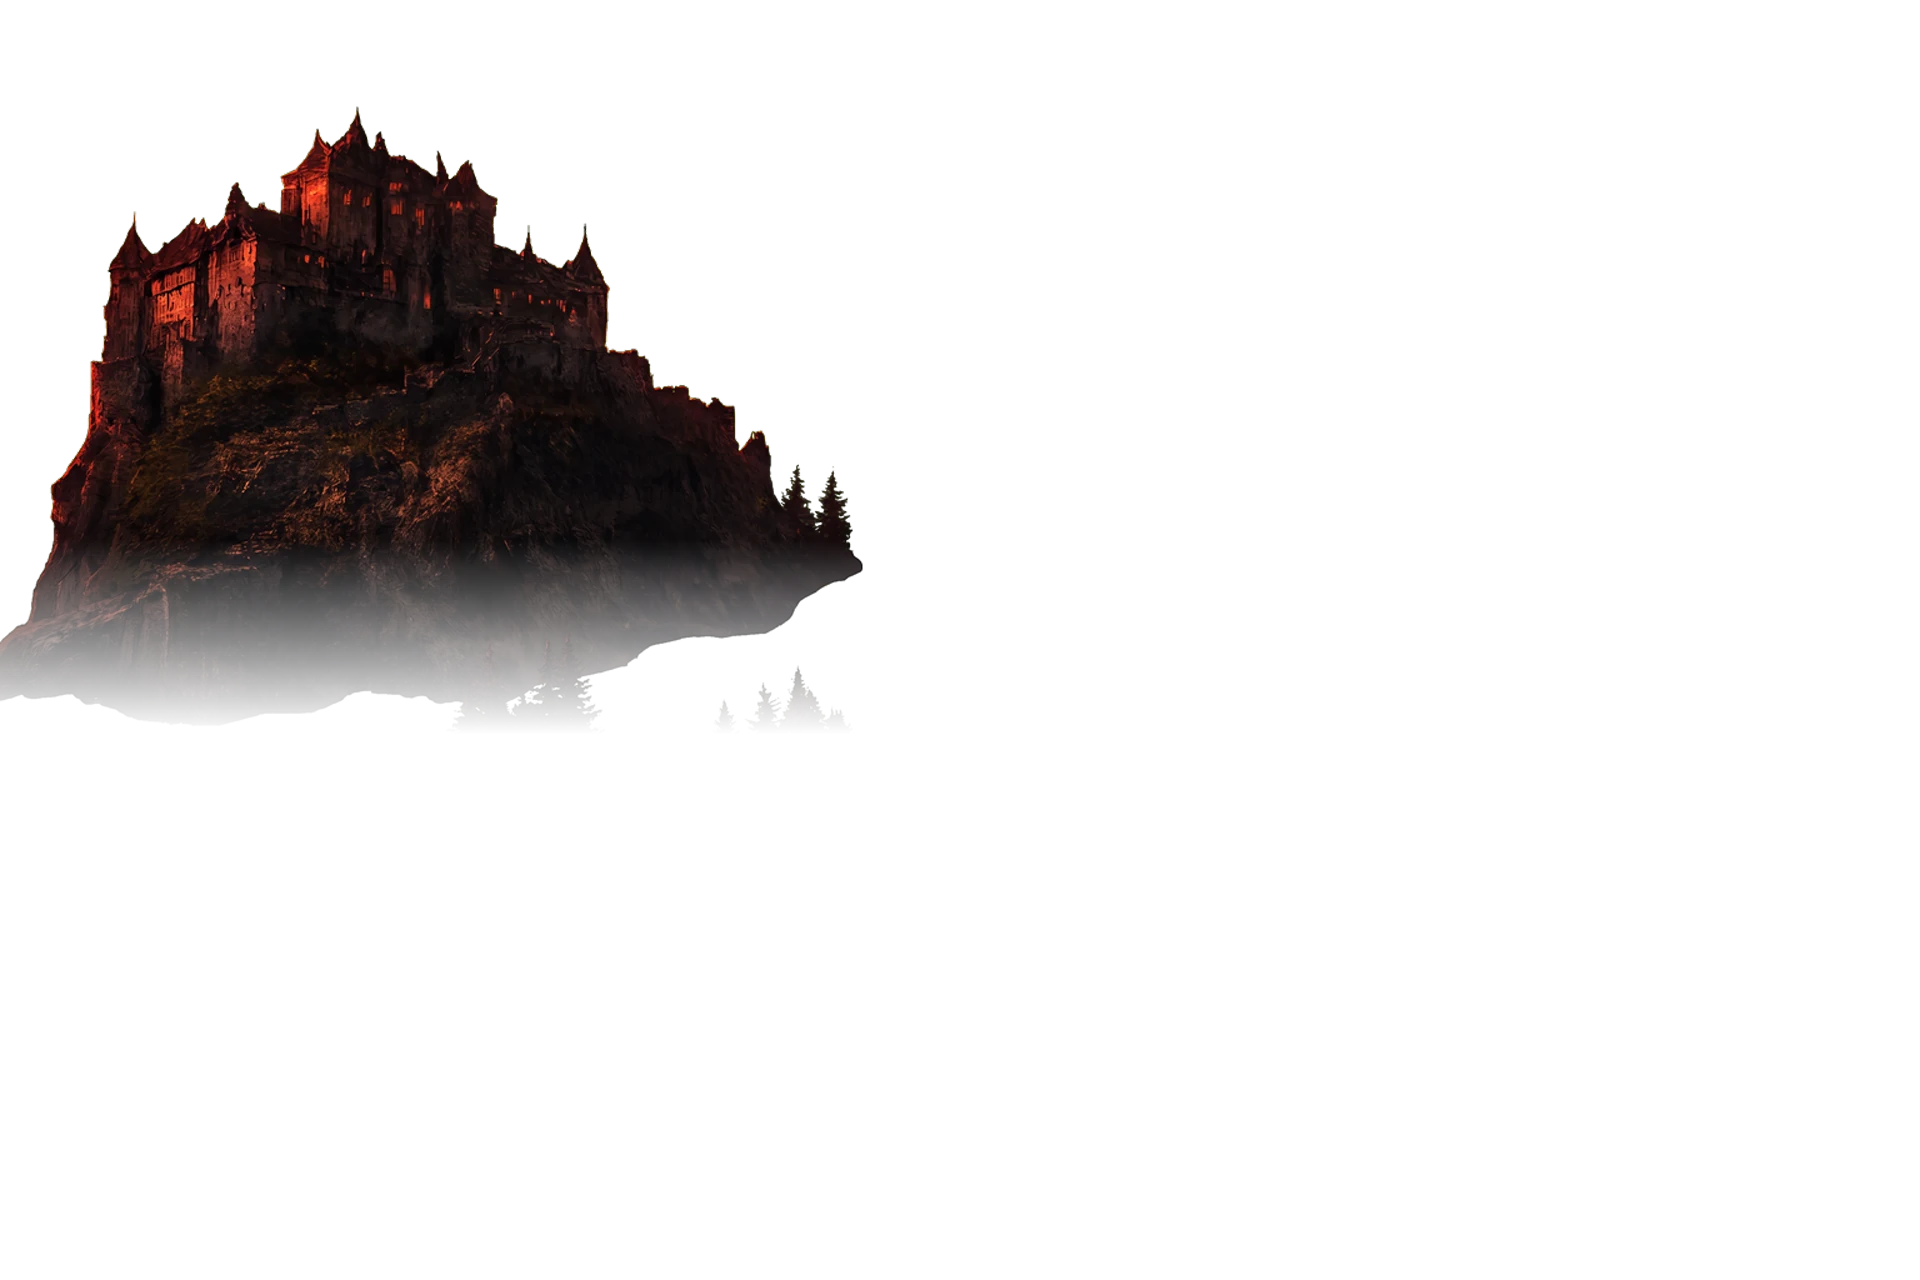
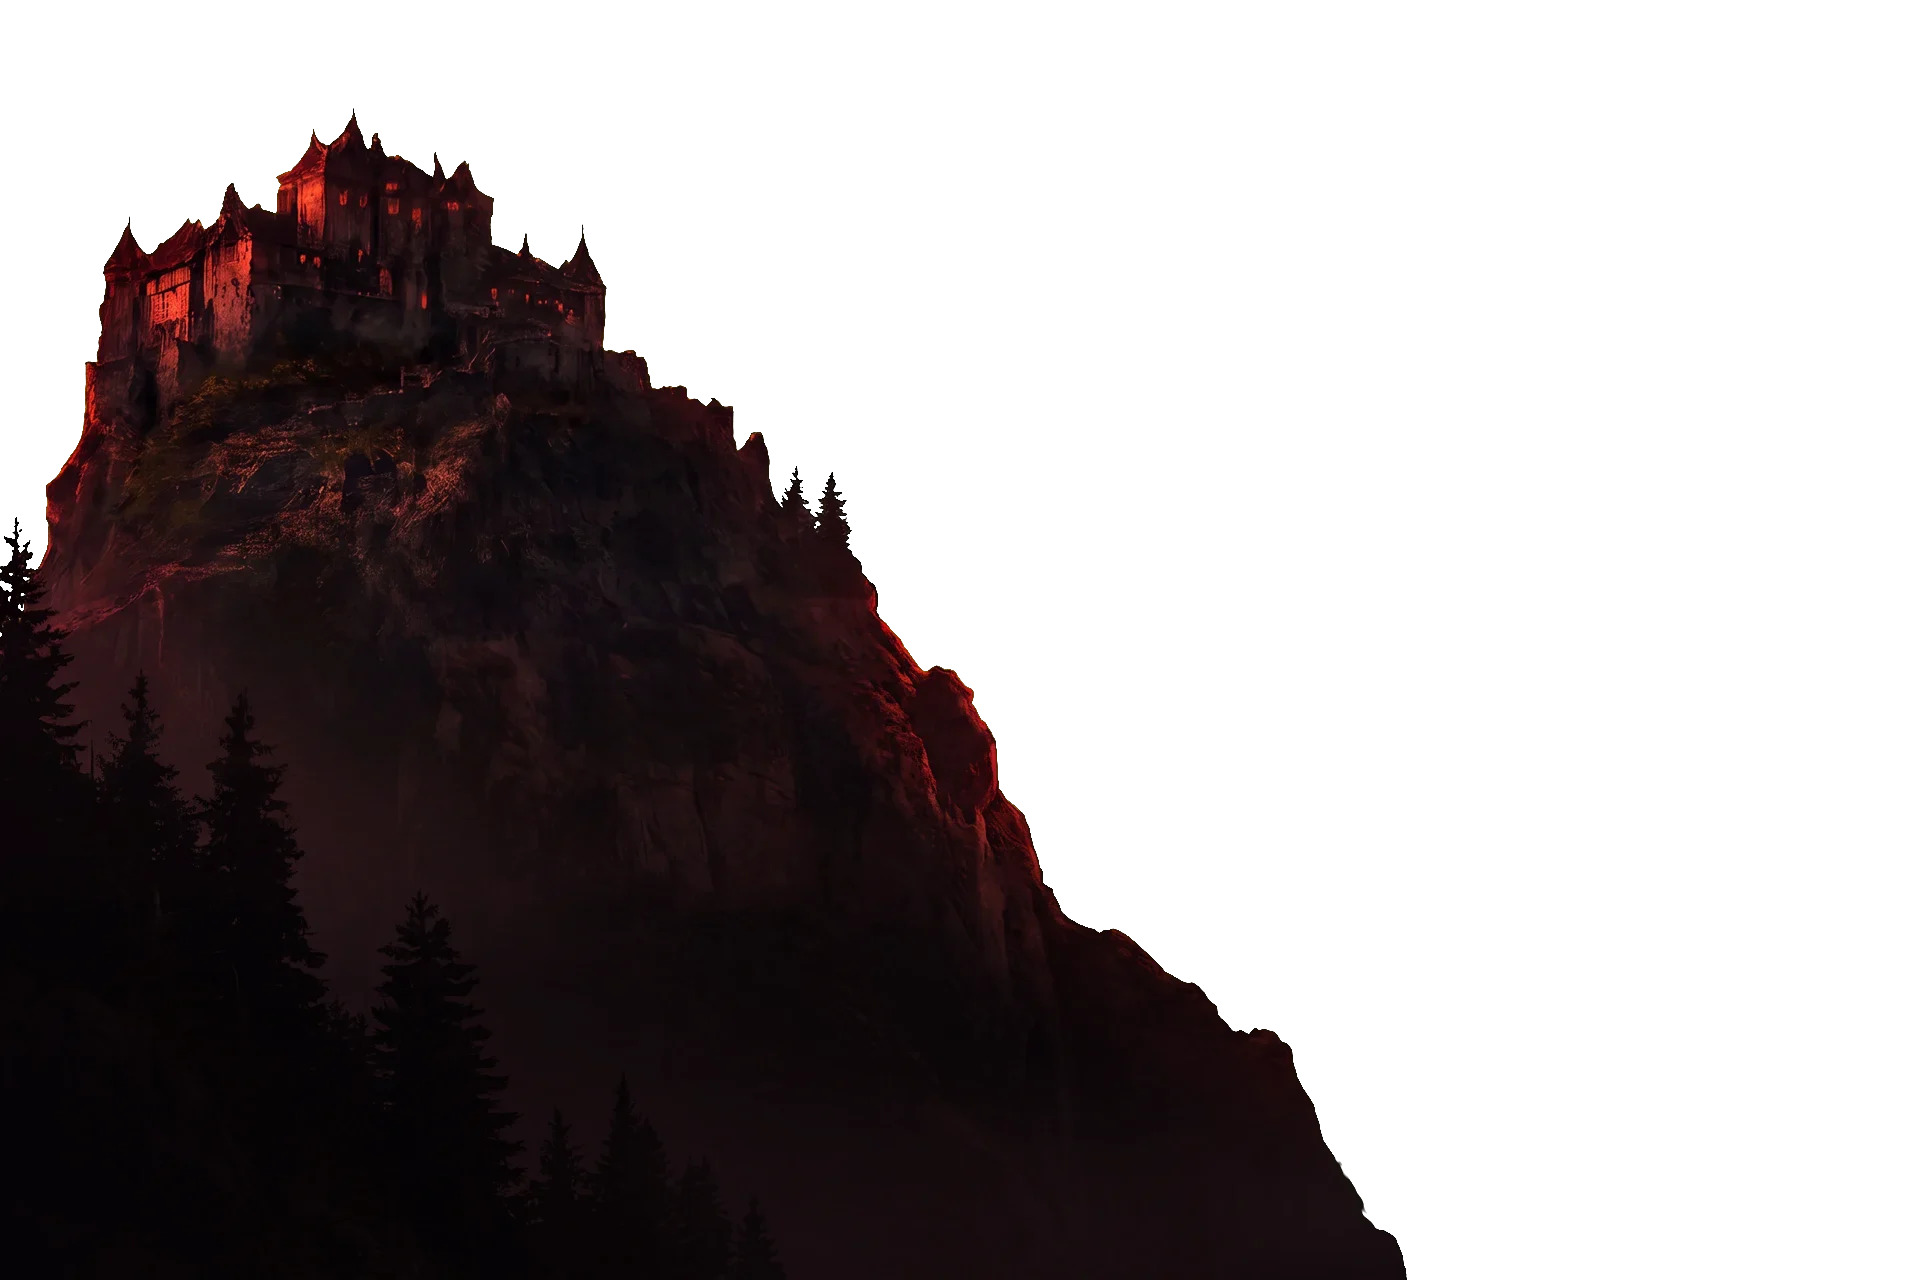
Kasteelrots tot de onderrand en decors die op elk schermformaat kloppen
- De kasteelrots is doorgeschilderd tot de onderrand van het beeld (dezelfde tint, dennen op de
  flank) en zakt naar beneden weg in het donker; geen zwevende rand meer
- Poortdecor in één doos met de verhouding van het schilderij (zoals de zaal): lagen, vlammen,
  fakkelgloed en de raaf blijven bij elk formaat en in fullscreen op hun plek
- Fakkelvlammen van de poort opgemeten op het schilderij

diff --git a/docs/index.html b/docs/index.html
@@ -434,8 +434,9 @@ button:focus-visible { outline: 2px solid var(--bone); outline-offset: 3px; }
 .stage.inzoom .hall { opacity: 0; pointer-events: none; }
 .tocht-decor { position: absolute; inset: 0; z-index: 5; overflow: hidden; background: #000; opacity: 0; transition: opacity 4.5s ease; pointer-events: none; }
 .tocht-decor.aan { opacity: 1; }
+.tocht-decor .p-beeld { position: absolute; } /* sized like object-fit: cover by dekBeeld(), so every layer, flame and the raven stay on their spot */
 .tocht-decor .pl { position: absolute; inset: 0; }
-.tocht-decor .pl img, .tocht-decor canvas { position: absolute; inset: 0; width: 100%; height: 100%; object-fit: cover; }
+.tocht-decor .pl img, .tocht-decor canvas { position: absolute; inset: 0; width: 100%; height: 100%; }
 /* entrance: sky first, then the gatehouse rises, the bridge comes up, the walls close in from the sides */
 .tocht-decor .pl-lucht { opacity: 0; transform: scale(1.12); transition: opacity 3.5s ease, transform 6s cubic-bezier(.2,.8,.3,1); }
 .tocht-decor .pl-poort { opacity: 0; transform: translateY(22%); transition: opacity 2.6s ease 1s, transform 3.6s cubic-bezier(.15,.85,.3,1) 1s; }
@@ -456,10 +457,10 @@ button:focus-visible { outline: 2px solid var(--bone); outline-offset: 3px; }
 .tocht-decor .pl-lucht img { transition: filter .6s ease; }
 .tocht-decor .pl-vuur { mix-blend-mode: plus-lighter; }
 .tocht-decor .poort-raaf { left: 27.2%; top: 11.8%; width: 5.2%; }
-.tocht-decor .fakkel { position: absolute; width: 26vw; aspect-ratio: 1; translate: -50% -50%; border-radius: 50%; mix-blend-mode: plus-lighter; pointer-events: none;
+.tocht-decor .fakkel { position: absolute; width: 26%; aspect-ratio: 1; translate: -50% -50%; border-radius: 50%; mix-blend-mode: plus-lighter; pointer-events: none;
   background: radial-gradient(circle, rgba(255,190,110,.42), rgba(255,110,40,.18) 35%, transparent 68%); animation: fakkel 2.3s ease-in-out infinite; }
 .tocht-decor .fakkel.b { animation-duration: 1.9s; animation-delay: -.7s; }
-.tocht-decor .fakkel.klein { width: 13vw; }
+.tocht-decor .fakkel.klein { width: 13%; }
 @keyframes fakkel { 0%, 100% { opacity: .75; scale: 1; } 23% { opacity: 1; scale: 1.05; } 41% { opacity: .65; scale: .97; } 63% { opacity: .95; scale: 1.03; } 82% { opacity: .7; } }
 .tocht-decor::after { content: ""; position: absolute; inset: 0; background: radial-gradient(ellipse 75% 70% at 50% 50%, transparent 40%, rgba(5,2,3,.85)); }
 .stage.in-kasteel .paneel { background: radial-gradient(ellipse 80% 70% at 50% 55%, rgba(7,4,5,.35), rgba(7,4,5,.75)); }
@@ -638,7 +639,7 @@ kbd { font: 11px var(--body); border: 1px solid rgba(239,227,212,.25); border-ra
     </div>
   </div>
 
-  <div class="tocht-decor" id="tocht-decor">
+  <div class="tocht-decor" id="tocht-decor"><div class="p-beeld" id="p-beeld">
     <div class="pl pl-lucht"><img id="tocht-beeld" src="a/poort/lucht.webp" alt=""><canvas id="poort-bliksem"></canvas></div>
     <canvas class="pl pl-vogels" id="poort-vogels"></canvas>
     <div class="pl pl-poort"><img src="a/poort/poort.webp" alt=""><div class="raven poort-raaf"><div class="raaf-sprite"></div></div></div>
@@ -648,7 +649,7 @@ kbd { font: 11px var(--body); border: 1px solid rgba(239,227,212,.25); border-ra
     <div class="pl pl-muur-r"><img src="a/poort/muur-r.webp" alt=""></div>
     <canvas class="pl pl-vuur" id="poort-vuur"></canvas>
     <span class="fakkel" style="left:11.8%;top:37%"></span><span class="fakkel b" style="left:88.2%;top:37%"></span><span class="fakkel klein b" style="left:33.8%;top:55%"></span><span class="fakkel klein" style="left:66.3%;top:55%"></span>
-  </div>
+  </div></div>
   <div class="uitleg tocht-intro" id="tocht-intro" hidden aria-live="polite"><div class="uitleg-kaart"><h2 class="carved">De Wachterstocht</h2>
     <p>Vanavond betreden jullie mijn kasteel. Draag het vuur door de poorten, de gangen en de gewelven.</p>
     <p>Vijf beproevingen wachten tussen de oude muren. Elke beproeving die jullie volbrengen, opent een vak van de Reliekenkist.</p>
@@ -734,13 +735,13 @@ kbd { font: 11px var(--body); border: 1px solid rgba(239,227,212,.25); border-ra
   </details>
 </div>
 
-<script src="a/events.js?v=22"></script>
-<script src="a/spel.js?v=22"></script>
-<script src="a/wachters.js?v=22"></script>
-<script src="a/firebase-config.js?v=22"></script>
-<script src="a/koppeling.js?v=22"></script>
-<script src="a/rollen.js?v=22"></script>
-<script src="a/tafel.js?v=22"></script>
+<script src="a/events.js?v=23"></script>
+<script src="a/spel.js?v=23"></script>
+<script src="a/wachters.js?v=23"></script>
+<script src="a/firebase-config.js?v=23"></script>
+<script src="a/koppeling.js?v=23"></script>
+<script src="a/rollen.js?v=23"></script>
+<script src="a/tafel.js?v=23"></script>
 <script>
 /* ================= data ================= */
 const ZEGELS = [
@@ -1285,7 +1286,7 @@ function tochtIntroKlaar(toonPaneel = tochtIntroVerder) {
   if (poortOk) { $("tocht-decor").classList.add("aan"); poortStart(); } $("tocht-intro").hidden = true; toonPaneel?.();
 }
 let tochtIntroVerder = null;
-const POORT_VUUR = [[.118, .415, 1], [.882, .415, 1], [.338, .555, .55], [.663, .555, .55], [.452, .612, .3], [.553, .612, .3], [.482, .64, .22]]; // x, y, size
+const POORT_VUUR = [[.122, .43, 1], [.877, .42, 1], [.332, .575, .55], [.667, .57, .55], [.454, .625, .3], [.553, .625, .3]]; // x, y, size (measured on the painting)
 let poortLoopt = false, poortTongen = [], poortMist = [], poortVogels = [], poortSchicht = null, poortVolgendeFlits = 0;
 function poortStart() { if (poortLoopt) return; poortLoopt = true; poortVolgendeFlits = performance.now() + 2500; requestAnimationFrame(poortFrame); }
 function poortMaat(cv) { const r = cv.getBoundingClientRect(), d = Math.min(2, devicePixelRatio || 1); if (cv.width !== Math.round(r.width * d)) { cv.width = Math.round(r.width * d); cv.height = Math.round(r.height * d); } return [cv.width, cv.height]; }
@@ -1360,11 +1361,15 @@ function paneel(naam) {
 // the Round Table hall: every 9 seconds the next Wachter is lit and his role shows on the table; a click holds it for a while
 let tafelRonde = null, tafelI = 0, tafelPauze = 0, zaalGebouwd = false;
 // the painting is 1920x1072: cover the screen with it, like object-fit: cover, so every layer and flame lines up
-function zaalMaat() {
-  const s = Math.max(innerWidth / 1920, innerHeight / 1072), w = 1920 * s, h = 1072 * s;
-  Object.assign($("z-beeld").style, { width: `${w}px`, height: `${h}px`, left: `${(innerWidth - w) / 2}px`, top: `${(innerHeight - h) / 2}px` });
+function dekBeeld(el, bw = 1920, bh = 1072) {
+  const s = Math.max(innerWidth / bw, innerHeight / bh), w = bw * s, h = bh * s;
+  Object.assign(el.style, { width: `${w}px`, height: `${h}px`, left: `${(innerWidth - w) / 2}px`, top: `${(innerHeight - h) / 2}px` });
 }
-addEventListener("resize", () => { if (stage.classList.contains("in-zaal")) zaalMaat(); });
+const zaalMaat = () => dekBeeld($("z-beeld"));
+const poortBeeldMaat = () => dekBeeld($("p-beeld"));
+addEventListener("resize", () => { zaalMaat(); poortBeeldMaat(); });
+document.addEventListener("fullscreenchange", () => setTimeout(() => { zaalMaat(); poortBeeldMaat(); }, 60));
+zaalMaat(); poortBeeldMaat();
 function zaalKaart(w) {
   const rol = Tafel.rolVan(w); document.querySelectorAll("#z-ring .z-zit").forEach((z) => z.classList.toggle("licht", z.dataset.naam === w.naam));
   $("z-kaart").innerHTML = `<div class="in">${rol ? `<div class="wie">${schoon(w.naam)}</div><h2 class="carved">${schoon(rol.naam)}</h2><div class="titel">${schoon(rol.titel)}</div><p>${schoon(rol.tekst)}</p>` : `<h2 class="carved">${schoon(w.naam)}</h2>`}</div>`;

diff --git a/docs/wachter.html b/docs/wachter.html
@@ -192,12 +192,12 @@ body.in-frame main { visibility: hidden; }
   <section class="paneel"><h2 class="carved" id="melding-kop"></h2><p id="melding-tekst"></p><button class="knop" type="button" id="melding-ok">Begrepen</button></section>
 </div>
 
-<script src="a/wachters.js?v=22"></script>
-<script src="a/spel.js?v=22"></script>
-<script src="a/rollen.js?v=22"></script>
-<script src="a/firebase-config.js?v=22"></script>
-<script src="a/koppeling.js?v=22"></script>
-<script src="a/tafel.js?v=22"></script>
+<script src="a/wachters.js?v=23"></script>
+<script src="a/spel.js?v=23"></script>
+<script src="a/rollen.js?v=23"></script>
+<script src="a/firebase-config.js?v=23"></script>
+<script src="a/koppeling.js?v=23"></script>
+<script src="a/tafel.js?v=23"></script>
 <script>
 const $ = (id) => document.getElementById(id);
 // a new version online? then this page refreshes itself (checked every minute; never while typing)

diff --git a/docs/regie-8d785a0dfd.html b/docs/regie-8d785a0dfd.html
@@ -205,12 +205,12 @@ input[type=text] { width: 100%; font: inherit; color: var(--bone); background: r
   </section>
 </main>
 
-<script src="a/events.js?v=22"></script>
-<script src="a/spel.js?v=22"></script>
-<script src="a/wachters.js?v=22"></script>
-<script src="a/rollen.js?v=22"></script>
-<script src="a/firebase-config.js?v=22"></script>
-<script src="a/koppeling.js?v=22"></script>
+<script src="a/events.js?v=23"></script>
+<script src="a/spel.js?v=23"></script>
+<script src="a/wachters.js?v=23"></script>
+<script src="a/rollen.js?v=23"></script>
+<script src="a/firebase-config.js?v=23"></script>
+<script src="a/koppeling.js?v=23"></script>
 <script>
 const $ = (id) => document.getElementById(id);
 // a new version online? then this page refreshes itself (checked every minute; never while typing)

diff --git a/docs/chaos-06d0ece377.html b/docs/chaos-06d0ece377.html
@@ -114,9 +114,9 @@ button[data-rust]:not([data-rust=""])::after { content: "rust " attr(data-rust);
 </main>
 <div class="melding" id="melding" role="status"></div>
 
-<script src="a/wachters.js?v=22"></script>
-<script src="a/firebase-config.js?v=22"></script>
-<script src="a/koppeling.js?v=22"></script>
+<script src="a/wachters.js?v=23"></script>
+<script src="a/firebase-config.js?v=23"></script>
+<script src="a/koppeling.js?v=23"></script>
 <script>
 const $ = (id) => document.getElementById(id);
 // a new version online? then this page refreshes itself (checked every minute; never while typing)
